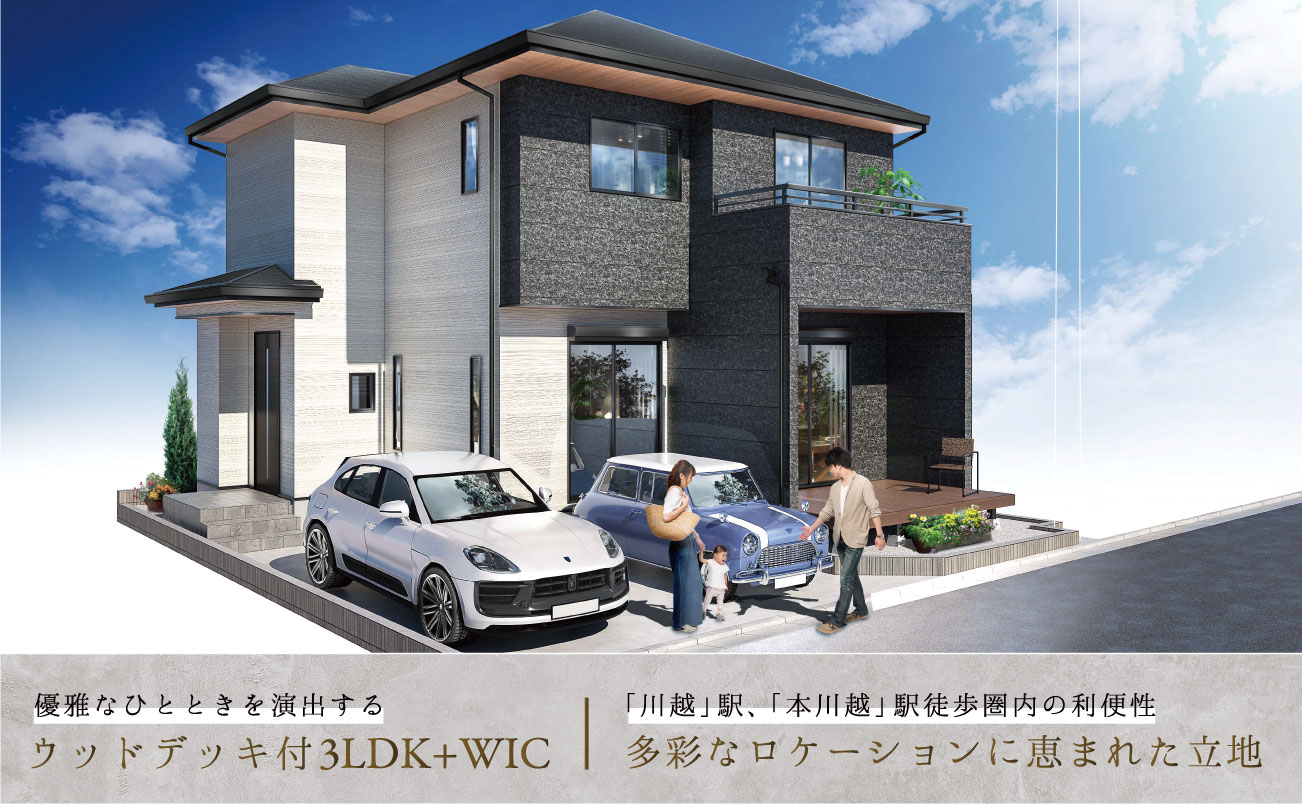
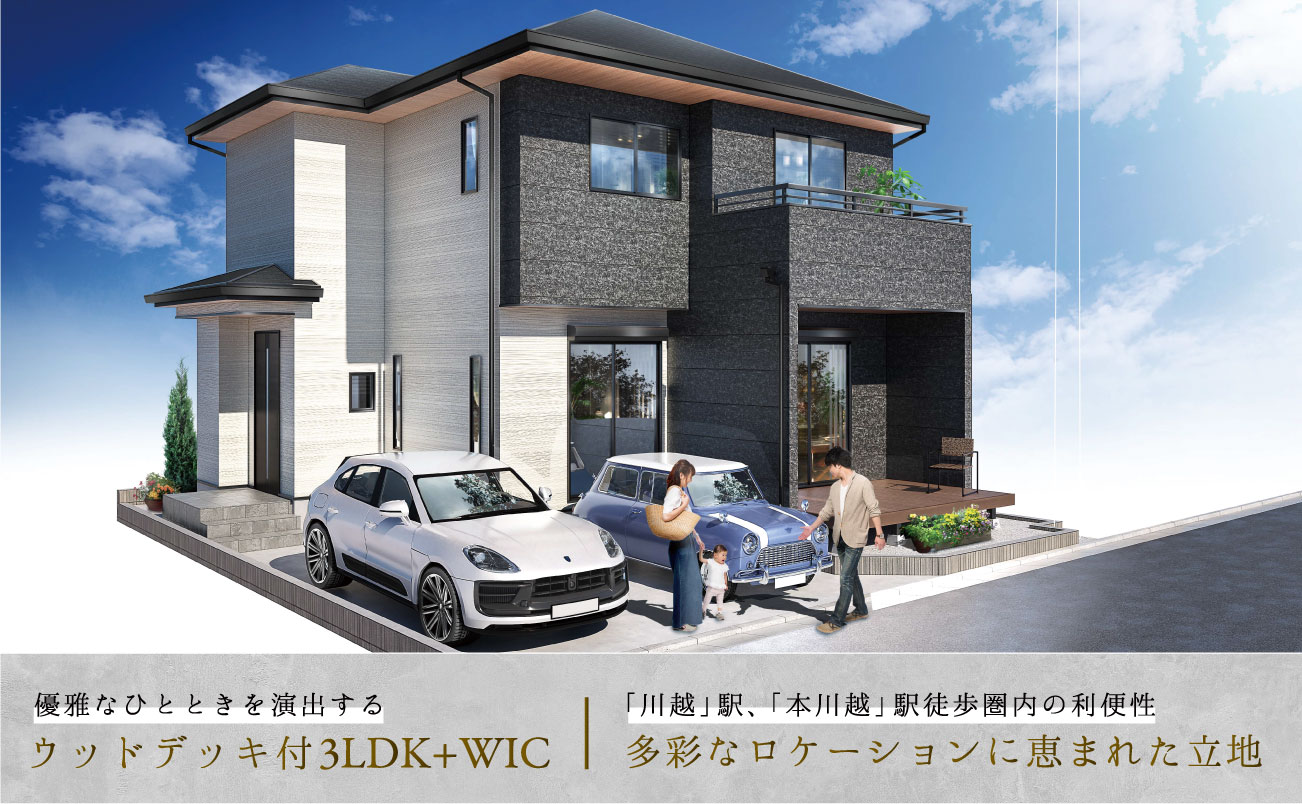
スライダー完成

diff --git a/index.html b/index.html
@@ -194,12 +194,12 @@
                 <div class="l-slider">
                     <div class="top-slider top-slider01">
                         <div class="slick-img">
-                            <img class="pc" src="images/slider/f-view01.jpg" alt="GRANCIA川越 日中のパース">
-                            <img class="sp" src="images/slider/f-view01s.jpg" alt="GRANCIA川越 日中のパース">
+                            <img class="pc" src="images/slider/f-view02.jpg" alt="GRANCIA川越 夕暮れのパース">
+                            <img class="sp" src="images/slider/f-view02s.jpg" alt="GRANCIA川越 夕暮れのパース">
                         </div>
                         <div class="slick-img">
-                            <img class="pc" src="images/slider/f-view01.jpg" alt="GRANCIA川越 夕暮れのパース">
-                            <img class="sp" src="images/slider/f-view01s.jpg" alt="GRANCIA川越 夕暮れのパース">
+                            <img class="pc" src="images/slider/f-view01.jpg" alt="GRANCIA川越 日中のパース">
+                            <img class="sp" src="images/slider/f-view01s.jpg" alt="GRANCIA川越 日中のパース">
                         </div>
                     </div>
                 </div>
